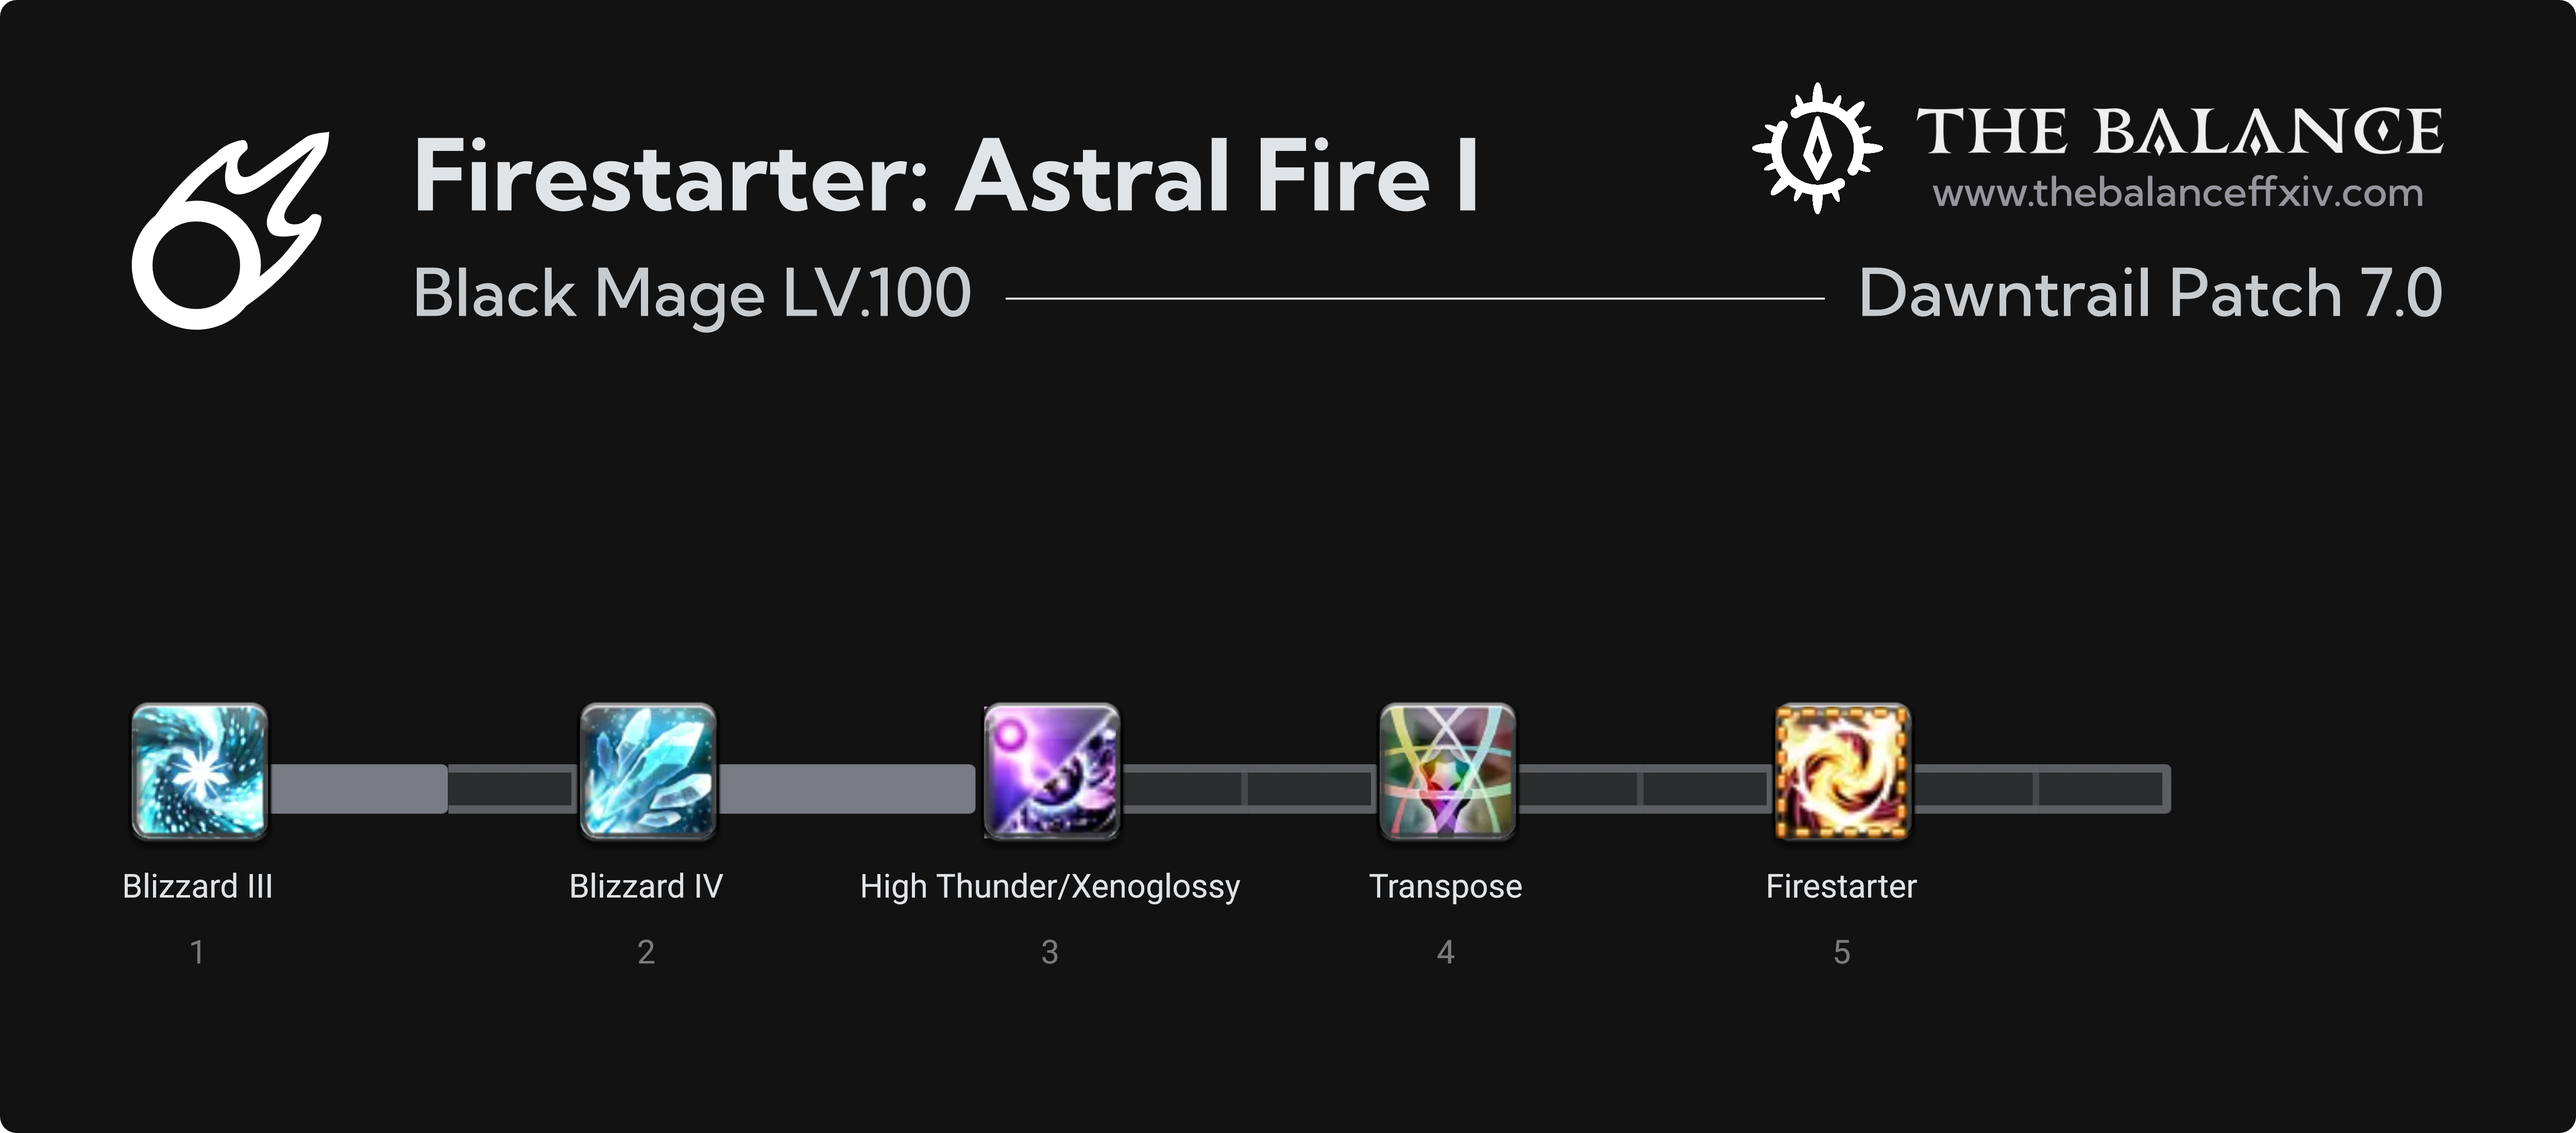
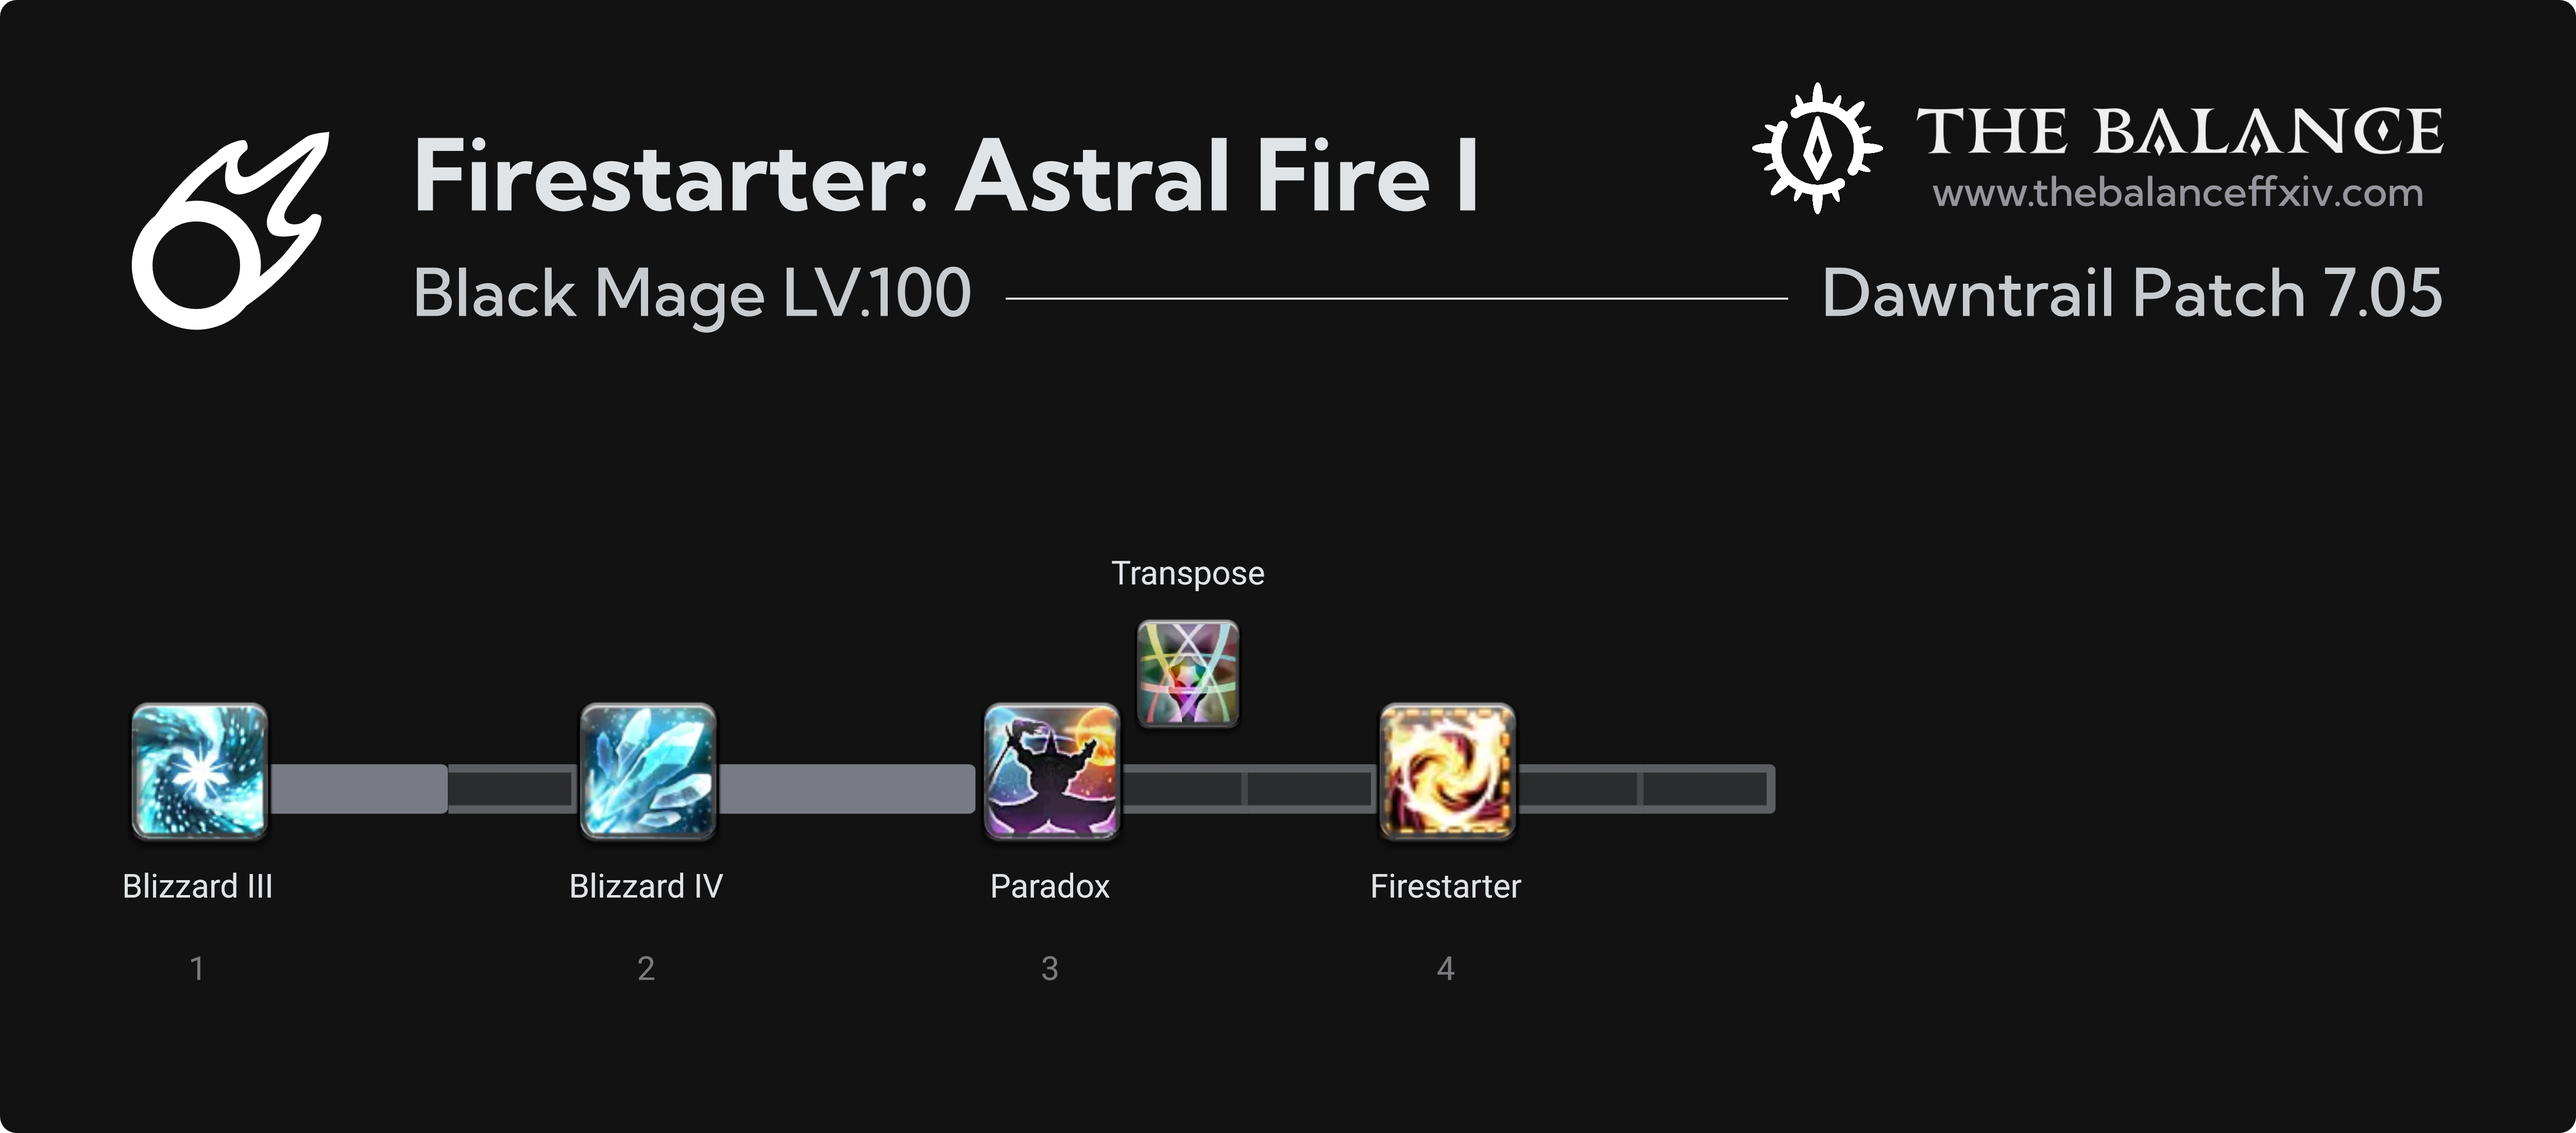
Update Black Mage guide “basic-guide”

diff --git a/content/jobs/casters/black-mage/basic-guide.md b/content/jobs/casters/black-mage/basic-guide.md
@@ -42,7 +42,7 @@ Black Mage is a caster specializing in high, steady personal damage in place of 
 
 **Polyglot** is a resource gained every 30 seconds that Enochian is active. At level 80+, a maximum of two polyglot stacks can be held at a time. At level 98+, a maximum of three polyglot stacks can be held at a time. If the polyglot timer completes while at maximum stacks, no additional polyglot stack is gained, and the timer restarts at zero again. If Enochian is dropped the polyglot stacks remain, but the timer is reset to 0.
 
-**Paradox** is a resource and spell available at level 90. When you have the resource, Paradox replaces **Fire** on your hotbars. As of Dawntrail, **Paradox** can only be used in Astral Fire. It replaces the **Fire** cast to refresh your Astral Fire timer, is instant-cast, and generates a guaranteed Firestarter proc. You gain a **Paradox** marker on your job gauge by transitioning from Umbral Ice III with three Umbral Hearts to Astral Fire.
+**Paradox** is a resource and spell available at level 90. When you have the resource, Paradox replaces both **Fire** and **Blizzard** on your hotbars. In Astral Fire, it replaces the **Fire** cast to refresh your Astral Fire timer, is instant-cast, and generates a guaranteed Firestarter proc. In Umbral ice, it is a strong instant-cast spell that refreshes your Umbral Ice timer and can be leveraged for weaving/movement. You gain a **Paradox** marker on your job gauge by transitioning from Umbral Ice III with three Umbral Hearts to Astral Fire, as well as from Astral Fire III to Umbral Ice.
 
 **Astral Soul** is a resource available at level 100. Successful casting of **Fire IV** generates one Astral Soul stack, casting **Flare** grants three Astral Soul stacks. Generating the maximum of 6 stacks of Astral Soul allows for the user to cast **Flare Star**. Stacks are consumed upon casting **Flare Star**, and expire upon leaving Astral Fire.
 
@@ -66,7 +66,7 @@ Black Mage is a caster specializing in high, steady personal damage in place of 
 
 In Astral Fire, the goal is to use all of your MP on **Fire IV** casts, and end in **Despair** followed by **Flare Star**. However, **Fire IV** does not refresh the Astral Fire timer, so **Paradox** is used once in between the **Fire IV** spam to maintain Astral Fire.
 
-In Umbral Ice, **Blizzard IV** is used to obtain three Umbral Hearts (as well as produce a **Paradox** marker when entering Astral Fire again), as well as refresh MP for the next Astral Fire cycle.
+In Umbral Ice, **Blizzard IV** is used to obtain three Umbral Hearts (as well as produce a **Paradox** marker when entering Astral Fire again), as well as refresh MP for the next Astral Fire cycle. The **Paradox** generated upon entering Umbral Ice from Astral Fire III is also used in this phase.
 
 In either stance, keeping the **High Thunder** DoT up is important, as well as utilizing polyglot stacks for **Xenoglossy** for movement/weaving/damage as needed.
 
@@ -74,7 +74,7 @@ In either stance, keeping the **High Thunder** DoT up is important, as well as u
 
 ## **Fire III Opener**
 
-![](/img/jobs/blm/black-mage-tentative-blm-opener.png)
+![](/img/jobs/blm/black-mage-opener.png)
 
 <br>The standard opener for BLM. Note that this opener is tentative, and is likely to change at least slightly depending on exact application timing for raid buffs. This opener has a rough bare minimum GCD (recast) of 2.45s, though most people will likely want some more Spell Speed than this for consistency in execution. If running a slower set and/or otherwise having issues with Astral Fire timing out, consider double weaving **Ley Lines** with the INT pot usage in the opener.
 
@@ -94,7 +94,9 @@ Using Flare for the extra Astral Soul stacks to enable an additional **Flare Sta
 
 <br>The standard format for the single target rotation loop is as above, following directly after the second **Despair** in the opener. Both **Xenoglossy** and **High Thunder** have no set place in the rotation, and instead are used as needed. The guaranteed Firestarter proc from **Paradox** has some flexibility in use as well. All of these will be further explained in later sections.
 
-With **Paradox** now being instant-cast in Dawntrail, it is recommended to default to having four **Fire IV** casts before **Paradox**. This provides similar leeway to Endwalker, allowing one extra cast on either half of the Astral Fire cycle. This can be used to shift **Fire IV** casts around and/or use **Xenoglossy**/**High Thunder** as needed anywhere in the cycle.
+With **Paradox** now being instant-cast during Astral Fire as well in Dawntrail, it is recommended to default to having four **Fire IV** casts before **Paradox**. This provides similar leeway to Endwalker, allowing one extra cast on either half of the Astral Fire cycle. This can be used to shift **Fire IV** casts around and/or use **Xenoglossy**/**High Thunder** as needed anywhere in the cycle.
+
+As of Patch 7.05, Paradox is now available for use in Umbral Ice again. Since this is a strong spell, it should generally be used every Umbral Ice phase. Prioritize using it for movement/weaving as needed, or for refreshing your Umbral Ice timer if needed.
 
 When possible, it can be advantageous to frontload five **Fire IV** casts before the **Paradox**, giving you even more room in the second half. You will need a bit higher Spell Speed and/or leverage **Triplecast**/**Swiftcast**/**Ley Lines** in order to execute this without dropping Astral Fire. Here is a more extreme example of using two **Xenoglossy** and one **High Thunder** while still being able to complete the full Astral Fire cycle:
 
@@ -123,7 +125,7 @@ A few important notes:
 
 Using your Firestarter proc in Astral Fire III, typically referred to as “AF3 F3P”, allows for extra flexibility in your Astral Fire timer, as well as extra mobility. Pictured below is a baseline version of using the proc for this purpose, allowing for the maximum leeway in your Astral Fire timer:
 
-![](/img/jobs/blm/black-mage-firestarter_-astral-fire-iii.png "Firestarter: Astral Fire III")
+![](/img/jobs/blm/black-mage-firestarter_-astral-fire-i.png "Firestarter: Astral Fire III")
 
 <br>This is just an example though–as needed, you can easily shift around any of the **Fire IV**/**Paradox** casts then use the Firestarter proc when your Astral Fire timer is getting low. Situationally, if you will not be able to complete all of your six **Fire IV** casts before Astral Fire drops, it will generally be the largest priority to use your Firestarter proc to refresh your timer. Guaranteeing the **Flare Star** is often going to be more important than other potential usage for the Firestarter proc.
 
@@ -133,9 +135,11 @@ Whenever possible, it is generally recommended to carry your Firestarter proc th
 
 ![](/img/jobs/blm/black-mage-firestarter_-astral-fire-i.png "Firestarter: Astral Fire I")
 
-<br>While using the Firestarter proc in Astral Fire III is still a reasonably strong spell, using the proc this way replaces a relatively weak **Fire III** casted in Umbral Ice III with one used in Astral Fire I and as a result provides more of a gain.\
-\
-This is not without drawbacks though—in order to weave the **Transpose**, it is required to use a “filler spell” (High Thunder or **Xenoglossy**), or less ideally have your **Blizzard IV** be instant-cast via **Swiftcast**/**Triplecast**. Furthermore, it is important to note that the Firestarter proc applies Astral Fire III sooner than a regular cast of **Fire III** would apply it, which will result in a slightly stricter Astral Fire timer to work with.
+<br>While using the Firestarter proc in Astral Fire III is still a reasonably strong spell, using the proc this way replaces a relatively weak **Fire III** casted in Umbral Ice III with one used in Astral Fire I and as a result provides more of a gain.
+
+Generally we can utilize **Paradox** in Umbral Ice to weave the Transpose for this use case as above. As needed, High Thunder or **Xenoglossy** can also be utilized for weaving here, or even (less ideally) have your **Blizzard IV** be instant-cast via **Swiftcast**/**Triplecast**.
+
+It is important to note that the Firestarter proc applies Astral Fire III sooner than a regular cast of **Fire III** would apply it, which will result in a slightly stricter Astral Fire timer to work with.
 
 # **AoE Rotation (3+ targets)**
 
@@ -236,6 +240,16 @@ With the introduction of **Flare Star**, it is even more important than ever to 
 2. Particularly in situations where you need to fit in a **Xenoglossy** use or a High Thunder refresh, consider using **Triplecast**/**Swiftcast** wherever best suited to give yourself sufficient leeway on your Astral Fire timer wherever it may be tighter.
 3. As previously mentioned, using your Firestarter procs to re-enter Astral Fire is generally the most optimal usage. However, if you have no other options to complete your Astral Fire cycle without it, using the proc to extend your Astral Fire timer is more valuable if it means finishing your cycle off and getting a **Flare Star** where you would not otherwise.
 
+## Recovery After Panic Transpose
+
+If you are unable to complete your Astral Fire phase properly, including leveraging your tools as above, it is generally preferable to **Transpose** out of Astral Fire instead of letting it drop entirely. In this situation we have a recommended recovery option, named after a nickname of one of the BLM Helpfuls “Geiji”: “Geiji Ice Recovery Line” (commonly referred to as GIRL):
+
+![](/img/jobs/blm/black-mage-geiji-ice-recovery-line.png "Geiji Ice Recovery Line (GIRL)")
+
+Using **Transpose** from Astral Fire grants Umbral Ice I, **Paradox** grants Umbral Ice II. The **Blizzard** cast provides the final stack of Umbral Ice to get back to Umbral Ice III, so we can cast **Blizzard IV** to get to full MP and three Umbral Hearts and resume the rotation as normal from there.
+
+There are additional potential use cases for this line, discussed later in the “Additional Optimizations” section.
+
 ## Handling Downtime and End of Fight
 
 Depending on the length and type of downtime, there are a few options to consider for prep before/after downtime.
@@ -251,7 +265,7 @@ Depending on the length and type of downtime, there are a few options to conside
 
 1. For short downtime, try leveraging **Triplecast**/**Swiftcast** to help you finish the rest of your Astral Fire phase when you have uptime again. Otherwise, having a Firestarter proc to use to refresh your timer can have pretty large value in short downtimes.
 2. For moderate length downtimes, you will often be able to use **Umbral Soul** to get back to full MP with three Umbral Hearts. If you are going to end the uptime phase in Astral Fire, consider dumping the rest of your MP with **Despair**, then using **Transpose** to enter Umbral Ice before using **Umbral Soul**.
-3. For especially long downtime, a Thunderhead buff you may initially obtain may not last long enough. In these cases, you can consider using **Transpose** to head back into Astral Fire, then **Transpose** back into Umbral Ice, using **Umbral Soul** to build back up to Umbral Ice III with three Umbral Hearts before you have uptime again. You will generate a fresh Thunderhead buff with each transition, so you can time this to ensure the proc lasts long enough to reapply immediately when possible.
+3. For especially long downtime, a Thunderhead buff you may initially obtain may not last long enough. In these cases, you can consider using **Transpose** to head back into Astral Fire, then **Transpose** back into Umbral Ice, using **Umbral Soul** to build back up to Umbral Ice III with three Umbral Hearts before you have uptime again. You will generate a fresh Thunderhead buff with each transition, so you can time this to ensure the proc lasts long enough to reapply immediately when possible. You can also similarly generate a **Paradox** for Umbral Ice by building up to Umbral Ice III with three Umbral Hearts before the first **Transpose**.
 
 ![](/img/jobs/blm/black-mage-downtime-thunderhead.png "Downtime Thunderhead")
 
@@ -278,13 +292,21 @@ Refreshing the DoT after it has fallen off, especially for a longer period of ti
 
 On average it will be better to refresh slightly early than let it drop off entirely. However, in either case, it is quite possible to have minimal to no loss from an early/late refresh. In an ideal environment and planned uptime lengths/killtimes/casting timeline, it is viable to quantify loss in alternative refresh timings compared to the gains they may facilitate for things like weaving for AF1 F3P, movement, or whatever else.
 
-In a less controlled environment and looking at a more generalized average, it can be worthwhile to refresh even up to around 10 seconds early to facilitate AF1 F3P. This also has the added benefit of not having to refresh in the tighter first half of your Astral Fire phase following the Firestarter proc. To stress again, however, it is important to not overly rely on early **High Thunder** refreshes, and they should instead be more considered as a situational alternative to utilize when needed.
+In a less controlled environment and looking at a more generalized average, it can be worthwhile to refresh slightly early/late to facilitate AF1 F3P. This also has the added benefit of not having to refresh in the tighter first half of your Astral Fire phase following the Firestarter proc. To stress again, however, it is important to not overly rely on early/late **High Thunder** refreshes, and they should instead be more considered as a situational alternative to utilize when needed.
 
 ## Pre-Manafont Considerations
 
 With **Manafont** now granting full resources including a **Paradox**, normally we will end up with a spare Firestarter proc pre-**Manafont** that we need to burn in Astral Fire III before we generate a new one with the second **Paradox**. While the proc used in Astral Fire III is still fairly solid, it’s not as valuable as it would be otherwise since we cannot use it to enable AF1 F3P.
 
 This can lead way towards justifying an alternative setup pre-**Manafont** that does not generate this Firestarter proc since it is otherwise “wasted” in Astral Fire III, and can also potentially help adjust alignment for an earlier **Manafont** usage.
+
+## Additional GIRL Applications
+
+Beyond simply a recovery option after a panic **Transpose** to prevent dropping Astral Fire, GIRL can be used in place of a regular **Blizzard III** cast. By itself, this is a small potency loss, but there are a few use cases for it which can result in a net gain (typically with a weaved **Transpose** usage):
+
+* Using Transpose at the tail end of an Astral Fire cycle grants Thunderhead a GCD earlier than after casting **Blizzard III**. If this results in gaining a DoT tick due to being able to reapply **High Thunder** a GCD earlier, it can end up being a gain. This situation most likely will come up if you refresh your **High Thunder** DoT at the start of an Astral Fire phase, since the DoT may fall off before you reenter Umbral Ice normally.
+* A **Paradox** in raid buffs is significantly stronger than a **Blizzard III** in buffs, particularly if casted in Astral Fire III. If you’re in a situation with one GCD left before raid buffs fall off, with the ability to weave **Transpose** at the tail end of an Astral Fire phase to use **Paradox**, it can be a good consideration.
+* **Paradox** provides an additional GCD of movement that **Blizzard III** would not grant by itself. While not a direct gain, this can be used to extend movement by an extra GCD for a small loss. If this results in uptime that you would not get otherwise, it can turn into a gain.
 
 # **Appendix**
 
@@ -360,7 +382,8 @@ For this document, full names of spells, buffs, and abilities were used for clar
 * MF: Manafont
 * Lucid: Lucid Dreaming
 * SpS/sps: Spell Speed
-* Pot: Main stat (Intelligence) potion, current strongest option is HQ Grade 1 Gemdraught of Intelligence
+* Pot: Main stat (Intelligence) potion, current strongest option is HQ Grade 2 Gemdraught of Intelligence
+* GIRL: Geiji Ice Recovery Line, a recovery option to get back into the regular rotation
 
 ## **Acknowledgements**
 
